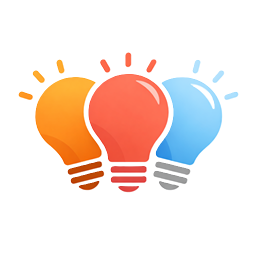
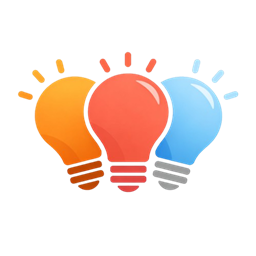
Feat: Add collapsible sections per light in configure step; use stable entity_id-based keys
- Use SectionSelector to wrap each light's fields in collapsible UI
- Switch from flat keys (light_power) to nested structure (light_entity_id: {power, brightness...})
- Use entity_id for stable key generation instead of light display name
- Replace chained .replace() with regex in _get_safe_name()
- Update README icon to logo@2x.png
- Rename HACS display name to 'Mood Lights'
- Remove deprecated dark icon files

diff --git a/custom_components/moodlights/config_flow.py b/custom_components/moodlights/config_flow.py
@@ -4,6 +4,7 @@ from __future__ import annotations
 from typing import TYPE_CHECKING
 
 import voluptuous as vol
+import re
 from homeassistant import config_entries
 from homeassistant.config_entries import SOURCE_RECONFIGURE
 from homeassistant.core import callback
@@ -134,33 +135,32 @@ class MoodLightsConfigFlow(config_entries.ConfigFlow, domain=DOMAIN):
         })
 
     async def async_step_configure_lights(self, user_input: dict | None = None) -> config_entries.ConfigFlowResult:
-        """Configure all lights — optional fields are left blank if not applied."""
+        """Configure all lights — each light in its own collapsible section."""
         if user_input is not None:
             light_configs = {}
 
             for entity_id in self.selected_lights:
                 config = {}
+                safe_name = self._get_safe_name(entity_id)
 
-                light_state = self.hass.states.get(entity_id)
-                light_name = light_state.name if light_state else entity_id
-                safe_name = self._get_safe_name(light_name)
+                # user_input is nested: user_input[safe_name][field]
+                section_data = user_input.get(safe_name, {})
 
                 # Power (always present)
-                power_key = f"{safe_name}_power"
-                config[CONF_LIGHT_POWER] = user_input.get(power_key, LIGHT_POWER_DONT_CHANGE)
+                config[CONF_LIGHT_POWER] = section_data.get(CONF_LIGHT_POWER, LIGHT_POWER_DONT_CHANGE)
 
                 # Brightness — only save if user provided a value
-                brightness_value = user_input.get(f"{safe_name}_brightness")
+                brightness_value = section_data.get(CONF_LIGHT_BRIGHTNESS)
                 if brightness_value is not None:
                     config[CONF_LIGHT_BRIGHTNESS] = int(brightness_value)
 
                 # Colour Temperature — only save if user provided a value
-                colortemp_value = user_input.get(f"{safe_name}_colortemp")
+                colortemp_value = section_data.get(CONF_LIGHT_COLOR_TEMP_KELVIN)
                 if colortemp_value is not None:
                     config[CONF_LIGHT_COLOR_TEMP_KELVIN] = int(colortemp_value)
 
                 # RGB Color — only save if user provided a value
-                rgb_value = user_input.get(f"{safe_name}_rgb")
+                rgb_value = section_data.get(CONF_LIGHT_RGB_COLOR)
                 if rgb_value is not None:
                     config[CONF_LIGHT_RGB_COLOR] = list(rgb_value)
 
@@ -200,13 +200,12 @@ class MoodLightsConfigFlow(config_entries.ConfigFlow, domain=DOMAIN):
             if moods:
                 existing_light_config = moods[0].get(CONF_LIGHT_CONFIG, {})
 
-        # Build schema — optional fields have no default (renders blank); pre-fill from existing data on reconfigure
-        schema = {}
+        # Build one collapsible section per light
+        sections = {}
 
         for entity_id in self.selected_lights:
             light_state = self.hass.states.get(entity_id)
-            light_name = light_state.name if light_state else entity_id
-            safe_name = self._get_safe_name(light_name)
+            safe_name = self._get_safe_name(entity_id)  # stable: based on entity_id, not display name
             supported_modes = light_state.attributes.get("supported_color_modes", []) if light_state else []
             stored = existing_light_config.get(entity_id, {})
 
@@ -221,18 +220,19 @@ class MoodLightsConfigFlow(config_entries.ConfigFlow, domain=DOMAIN):
             min_kelvin = light_state.attributes.get("min_color_temp_kelvin", MIN_COLOR_TEMP_KELVIN) if light_state else MIN_COLOR_TEMP_KELVIN
             max_kelvin = light_state.attributes.get("max_color_temp_kelvin", MAX_COLOR_TEMP_KELVIN) if light_state else MAX_COLOR_TEMP_KELVIN
 
+            # Build schema for this light's section
+            section_schema: dict = {}
+
             # Power selector (always visible) — pre-fill from stored config
             stored_power = stored.get(CONF_LIGHT_POWER, LIGHT_POWER_DONT_CHANGE)
-            schema[vol.Required(f"{safe_name}_power", default=stored_power)] = (
-                selector.SelectSelector(
-                    selector.SelectSelectorConfig(
-                        options=[
-                            {"value": LIGHT_POWER_ON, "label": "Turn On"},
-                            {"value": LIGHT_POWER_OFF, "label": "Turn Off"},
-                            {"value": LIGHT_POWER_DONT_CHANGE, "label": "Don't Change"},
-                        ],
-                        mode=selector.SelectSelectorMode.DROPDOWN,
-                    )
+            section_schema[vol.Required(CONF_LIGHT_POWER, default=stored_power)] = selector.SelectSelector(
+                selector.SelectSelectorConfig(
+                    options=[
+                        {"value": LIGHT_POWER_ON, "label": "Turn On"},
+                        {"value": LIGHT_POWER_OFF, "label": "Turn Off"},
+                        {"value": LIGHT_POWER_DONT_CHANGE, "label": "Don't Change"},
+                    ],
+                    mode=selector.SelectSelectorMode.DROPDOWN,
                 )
             )
 
@@ -240,11 +240,11 @@ class MoodLightsConfigFlow(config_entries.ConfigFlow, domain=DOMAIN):
             if has_brightness:
                 stored_brightness = stored.get(CONF_LIGHT_BRIGHTNESS)
                 brightness_key = (
-                    vol.Optional(f"{safe_name}_brightness", default=stored_brightness)
+                    vol.Optional(CONF_LIGHT_BRIGHTNESS, default=stored_brightness)
                     if stored_brightness is not None
-                    else vol.Optional(f"{safe_name}_brightness")
+                    else vol.Optional(CONF_LIGHT_BRIGHTNESS)
                 )
-                schema[brightness_key] = selector.NumberSelector(
+                section_schema[brightness_key] = selector.NumberSelector(
                     selector.NumberSelectorConfig(
                         min=MIN_BRIGHTNESS,
                         max=MAX_BRIGHTNESS,
@@ -258,11 +258,11 @@ class MoodLightsConfigFlow(config_entries.ConfigFlow, domain=DOMAIN):
             if has_color_temp:
                 stored_colortemp = stored.get(CONF_LIGHT_COLOR_TEMP_KELVIN)
                 colortemp_key = (
-                    vol.Optional(f"{safe_name}_colortemp", default=stored_colortemp)
+                    vol.Optional(CONF_LIGHT_COLOR_TEMP_KELVIN, default=stored_colortemp)
                     if stored_colortemp is not None
-                    else vol.Optional(f"{safe_name}_colortemp")
+                    else vol.Optional(CONF_LIGHT_COLOR_TEMP_KELVIN)
                 )
-                schema[colortemp_key] = selector.NumberSelector(
+                section_schema[colortemp_key] = selector.NumberSelector(
                     selector.NumberSelectorConfig(
                         min=min_kelvin,
                         max=max_kelvin,
@@ -276,21 +276,29 @@ class MoodLightsConfigFlow(config_entries.ConfigFlow, domain=DOMAIN):
             if has_rgb:
                 stored_rgb = stored.get(CONF_LIGHT_RGB_COLOR)
                 rgb_key = (
-                    vol.Optional(f"{safe_name}_rgb", default=stored_rgb)
+                    vol.Optional(CONF_LIGHT_RGB_COLOR, default=stored_rgb)
                     if stored_rgb is not None
-                    else vol.Optional(f"{safe_name}_rgb")
+                    else vol.Optional(CONF_LIGHT_RGB_COLOR)
                 )
-                schema[rgb_key] = selector.ColorRGBSelector()
+                section_schema[rgb_key] = selector.ColorRGBSelector()
+
+            # Wrap this light's fields in a collapsible section
+            sections[vol.Required(safe_name)] = selector.SectionSelector(
+                selector.SectionSelectorConfig(
+                    schema=vol.Schema(section_schema),
+                    collapsed=False,
+                )
+            )
 
         return self.async_show_form(
             step_id="configure_lights",
-            data_schema=vol.Schema(schema),
+            data_schema=vol.Schema(sections),
             last_step=True,
         )
 
     def _get_safe_name(self, name: str) -> str:
         """Convert a name to a safe key format."""
-        return name.replace(" ", "_").replace(".", "_").replace("-", "_").lower()
+        return re.sub(r"[^a-z0-9_]", "_", name.lower())
 
     async def async_step_reconfigure(
         self, user_input: dict | None = None

diff --git a/README.md b/README.md
@@ -1,6 +1,6 @@
 # MoodLights
 
-![Icon](dark_logo@2x.png)
+![Icon](logo@2x.png)
 
 Easy mood-based light management for Home Assistant.
 
